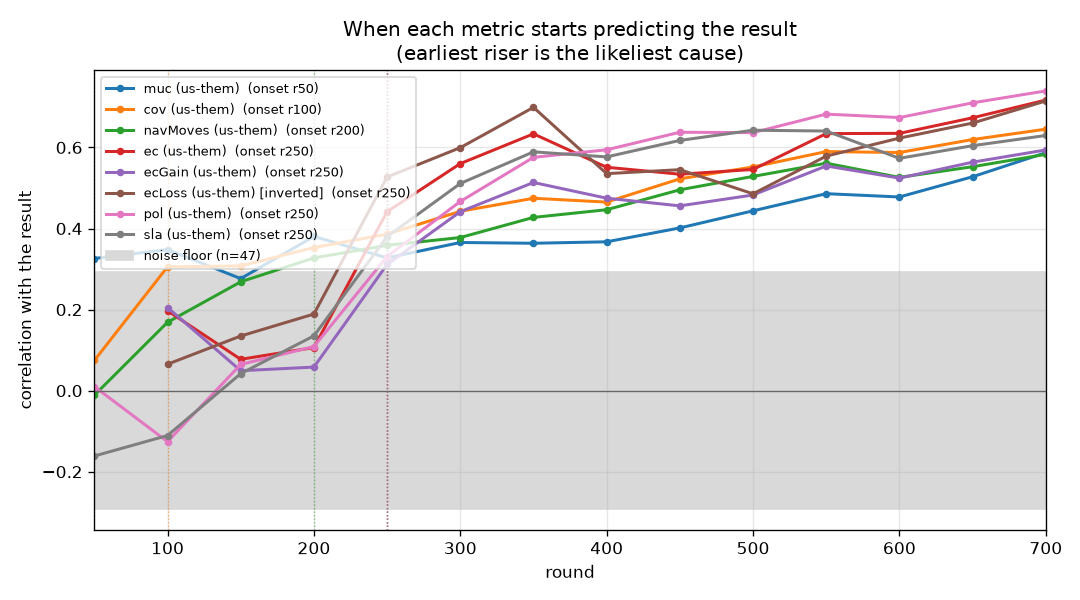
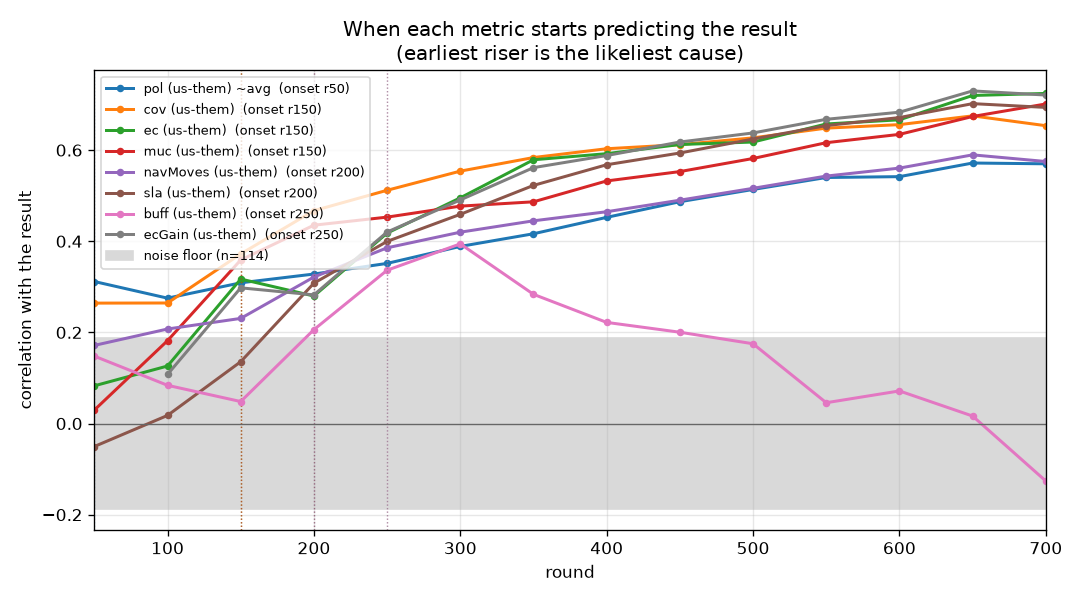
Onset and correlation tables regenerated on 144 g_iter13 games; the finding in the log and the post-mortem
Claude-Session: https://claude.ai/code/session_01VgeNHsn9ncLsLui8RaK6L7

diff --git a/progress/ONSET.md b/progress/ONSET.md
@@ -1,6 +1,6 @@
 # Which metric starts predicting the result first
 
-47 games, 40 wins. Noise floor about 0.29; a correlation inside that band is not evidence.
+114 games, 103 wins. Noise floor about 0.19; a correlation inside that band is not evidence.
 
 Every metric is oriented so **higher is better for us**, so a positive correlation always means
 "this being better goes with winning". `~avg` is the running mean over all rounds so far rather than
@@ -12,32 +12,32 @@ See `progress/METRICS.md` for how each quantity is computed.
 
 | onset | anti | metric | peak corr | r50 | r100 | r200 | r300 | r400 | r600 |
 |---|---|---|---|---|---|---|---|---|---|
-| r50 | - | muc (us-them) | +0.59 | +0.33 | +0.35 | +0.38 | +0.37 | +0.37 | +0.48 |
-| r50 | - | muc (us-them) ~avg | +0.47 | +0.32 | +0.34 | +0.35 | +0.37 | +0.36 | +0.41 |
-| r100 | - | cov (us-them) | +0.65 | +0.07 | +0.31 | +0.35 | +0.44 | +0.47 | +0.59 |
-| r150 | - | cov (us-them) ~avg | +0.54 | +0.06 | +0.27 | +0.35 | +0.41 | +0.41 | +0.51 |
-| r200 | - | navMoves (us-them) | +0.58 | -0.01 | +0.17 | +0.33 | +0.38 | +0.45 | +0.53 |
-| r200 | - | navMoves (us-them) ~avg | +0.54 | +0.01 | +0.16 | +0.33 | +0.39 | +0.43 | +0.50 |
-| r250 | - | ec (us-them) | +0.72 | . | +0.20 | +0.11 | +0.56 | +0.55 | +0.63 |
-| r250 | - | ec (us-them) ~avg | +0.61 | . | +0.20 | +0.16 | +0.45 | +0.55 | +0.56 |
-| r250 | - | ecGain (us-them) | +0.59 | . | +0.20 | +0.06 | +0.44 | +0.47 | +0.52 |
-| r250 | - | ecLoss (us-them) [inverted] | +0.71 | . | +0.07 | +0.19 | +0.60 | +0.54 | +0.62 |
-| r250 | - | ecLoss (us-them) [inverted] ~avg | +0.64 | . | +0.07 | +0.12 | +0.48 | +0.57 | +0.59 |
-| r250 | - | pol (us-them) | +0.74 | +0.01 | -0.13 | +0.11 | +0.47 | +0.59 | +0.67 |
-| r250 | - | sla (us-them) | +0.64 | -0.16 | -0.11 | +0.14 | +0.51 | +0.58 | +0.57 |
-| r300 | - | ecGain (us-them) ~avg | +0.49 | . | +0.20 | +0.14 | +0.35 | +0.44 | +0.44 |
-| r300 | - | ecInf (us-them) | +0.52 | -0.13 | -0.03 | +0.11 | +0.36 | +0.45 | +0.46 |
-| r300 | - | exp (us-them) | +0.38 | +0.11 | +0.17 | +0.12 | +0.38 | +0.31 | +0.27 |
-| r300 | - | exp (us-them) ~avg | +0.38 | +0.11 | +0.22 | +0.25 | +0.35 | +0.33 | +0.27 |
-| r300 | - | pol (us-them) ~avg | +0.66 | -0.00 | -0.07 | +0.05 | +0.33 | +0.50 | +0.61 |
-| r300 | - | sla (us-them) ~avg | +0.62 | -0.14 | -0.12 | +0.02 | +0.32 | +0.49 | +0.57 |
-| r350 | - | unitInf (us-them) | +0.70 | -0.07 | -0.01 | -0.08 | +0.18 | +0.56 | +0.65 |
-| r400 | - | ecInf (us-them) ~avg | +0.54 | -0.13 | -0.04 | +0.10 | +0.21 | +0.37 | +0.50 |
-| r400 | - | unitInf (us-them) ~avg | +0.69 | -0.06 | -0.01 | -0.06 | +0.06 | +0.31 | +0.65 |
-| - | - | buff (us-them) | +0.28 | +0.12 | +0.13 | +0.05 | +0.27 | +0.07 | +0.07 |
-| - | - | buff (us-them) ~avg | +0.32 | +0.12 | +0.17 | +0.18 | +0.26 | +0.20 | +0.20 |
-| - | r400 | navAba (us-them) [inverted] | -0.50 | +0.10 | +0.14 | -0.06 | -0.21 | -0.32 | -0.45 |
-| - | r500 | navAba (us-them) [inverted] ~avg | -0.44 | +0.12 | +0.14 | -0.02 | -0.14 | -0.23 | -0.38 |
+| r50 | - | pol (us-them) ~avg | +0.57 | +0.31 | +0.28 | +0.33 | +0.39 | +0.45 | +0.54 |
+| r150 | - | cov (us-them) | +0.68 | +0.26 | +0.26 | +0.47 | +0.55 | +0.60 | +0.66 |
+| r150 | - | cov (us-them) ~avg | +0.63 | +0.27 | +0.28 | +0.42 | +0.53 | +0.58 | +0.62 |
+| r150 | - | ec (us-them) | +0.72 | +0.08 | +0.13 | +0.28 | +0.50 | +0.59 | +0.67 |
+| r150 | - | muc (us-them) | +0.70 | +0.03 | +0.18 | +0.44 | +0.48 | +0.53 | +0.63 |
+| r200 | - | ec (us-them) ~avg | +0.66 | +0.08 | +0.14 | +0.32 | +0.44 | +0.54 | +0.62 |
+| r200 | - | muc (us-them) ~avg | +0.62 | +0.03 | +0.13 | +0.37 | +0.45 | +0.50 | +0.58 |
+| r200 | - | navMoves (us-them) | +0.59 | +0.17 | +0.21 | +0.32 | +0.42 | +0.46 | +0.56 |
+| r200 | - | pol (us-them) | +0.67 | +0.31 | +0.22 | +0.32 | +0.43 | +0.50 | +0.61 |
+| r200 | - | sla (us-them) | +0.70 | -0.05 | +0.02 | +0.31 | +0.46 | +0.57 | +0.67 |
+| r250 | - | buff (us-them) | +0.39 | +0.15 | +0.08 | +0.21 | +0.39 | +0.22 | +0.07 |
+| r250 | - | ecGain (us-them) | +0.73 | . | +0.11 | +0.28 | +0.49 | +0.59 | +0.68 |
+| r250 | - | ecGain (us-them) ~avg | +0.64 | . | +0.11 | +0.30 | +0.42 | +0.51 | +0.60 |
+| r250 | - | exp (us-them) | +0.50 | +0.14 | +0.12 | +0.19 | +0.46 | +0.47 | +0.37 |
+| r250 | - | navMoves (us-them) ~avg | +0.54 | +0.17 | +0.20 | +0.29 | +0.39 | +0.45 | +0.52 |
+| r300 | - | buff (us-them) ~avg | +0.42 | +0.15 | +0.11 | +0.18 | +0.41 | +0.40 | +0.31 |
+| r300 | - | ecLoss (us-them) [inverted] | +0.61 | . | . | +0.11 | +0.35 | +0.46 | +0.50 |
+| r300 | - | exp (us-them) ~avg | +0.43 | +0.15 | +0.13 | +0.15 | +0.31 | +0.41 | +0.42 |
+| r300 | - | sla (us-them) ~avg | +0.65 | -0.05 | -0.01 | +0.18 | +0.36 | +0.49 | +0.61 |
+| r350 | - | ecLoss (us-them) [inverted] ~avg | +0.53 | . | . | +0.15 | +0.27 | +0.42 | +0.46 |
+| r350 | - | unitInf (us-them) | +0.68 | +0.13 | +0.10 | +0.14 | +0.23 | +0.44 | +0.65 |
+| r400 | - | ecInf (us-them) | +0.61 | -0.13 | -0.03 | -0.03 | +0.18 | +0.42 | +0.58 |
+| r400 | - | unitInf (us-them) ~avg | +0.60 | +0.13 | +0.10 | +0.12 | +0.18 | +0.31 | +0.53 |
+| r450 | - | ecInf (us-them) ~avg | +0.56 | -0.13 | -0.05 | -0.01 | +0.11 | +0.29 | +0.53 |
+| - | r350 | navAba (us-them) [inverted] | -0.56 | +0.12 | +0.09 | +0.05 | -0.24 | -0.38 | -0.53 |
+| - | r450 | navAba (us-them) [inverted] ~avg | -0.48 | +0.12 | +0.10 | +0.09 | -0.11 | -0.28 | -0.45 |
 | - | - | navSwamp (us-them) [inverted] | . | . | . | . | . | . | . |
 | - | - | navSwamp (us-them) [inverted] ~avg | . | . | . | . | . | . | . |
 

diff --git a/TRAINING_LOG.md b/TRAINING_LOG.md
@@ -5912,3 +5912,17 @@ The g_iter13 code over its seven blocks (the iter58 block is the same code):
 
 Ladder after recording: 1104 scrimmages (ours only); K=32 from 1500; our team is **us**: rank 3 of 21 rated bots, Elo 1760, 1104 games
 Ladder blocks end here; the VM is idle for the 13:00 UTC shutdown.
+
+## The final bot's onset table on 144 games (2026-09-23 07:15 UTC)
+
+`tools/scrim-study.sh` over the three most recent `g_iter13` blocks, merged into
+`gauntlet/g13-combined` (1,569 rows, 123 games with a full r200 row after the locked-tier skips);
+`progress/ONSET.md` and `onset-ladder.png` regenerated on it. Noise floor ~0.19 instead of ~0.29.
+At r200, within-pair: **coverage lead +0.49** (loss median -107 tiles), **muckraker-count lead
++0.47** (loss median -20), navigation moves +0.36, slanderer lead +0.28, centre lead +0.28,
+politician lead +0.26 (its ~avg form rises from r50). The earliest risers are the same two as
+on 48 games -- coverage and muckrakers -- now well clear of the floor: against the field the
+final bot is beaten when the opponent has the map and the muckrakers by r200, before the
+economy or the centres separate. That is the next competitor's first hypothesis, with the
+caveat from Iteration 38: more scouts alone did not win games (51.7%); it is what the
+muckrakers *do* on the map that the swarm bots have and we do not.

diff --git a/POSTMORTEM.md b/POSTMORTEM.md
@@ -188,6 +188,17 @@ All read from the engine source or measured in logged games; none guessed.
   to 1 and lost the mirror on votes to a hoarder. Read the two together, and pre-register
   which one decides.
 
+### What predicts a win for the final bot
+
+On 144 games of `g_iter13` against the field (noise floor ~0.19), the earliest and strongest
+r200 correlates of the result, within opponent-and-map pairs, are the **coverage lead** (+0.49;
+loss median -107 tiles) and the **muckraker-count lead** (+0.47; loss median -20), then moves,
+slanderer lead and centre lead (+0.28 each). The final bot is beaten when the opponent has the
+map and the muckrakers by r200, before the economy or the centres separate. Iteration 38
+showed more scouts alone do not win (51.7%); what the swarm bots' muckrakers *do* -- hunt
+slanderers, dilute speeches, block spawns -- is the difference, and `arch_hunt`/`arch_lemon`
+reproduce it. `progress/ONSET.md` has the full table.
+
 ## 7. What did not work
 
 - Holding fresh centres with influence floors, capture banks or dilution sentinels (Iteration

diff --git a/PROMPTS.md b/PROMPTS.md
@@ -498,3 +498,7 @@ Following up on earlier conversations, I'd like you to focus your enhanced intel
 > task check.  If the VM is idle and you're not working on anything, come up with a new idea.  Otherwise, continue as you are
 
 > task check.  If the VM is idle and you're not working on anything, come up with a new idea.  Otherwise, continue as you are
+
+> task check.  If the VM is idle and you're not working on anything, come up with a new idea.  Otherwise, continue as you are
+
+> task check.  If the VM is idle and you're not working on anything, come up with a new idea.  Otherwise, continue as you are
